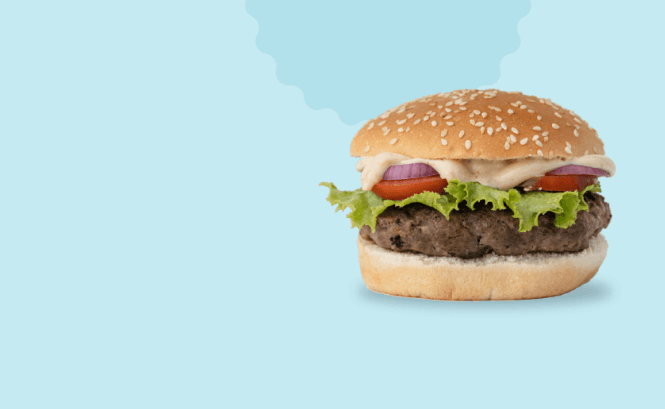
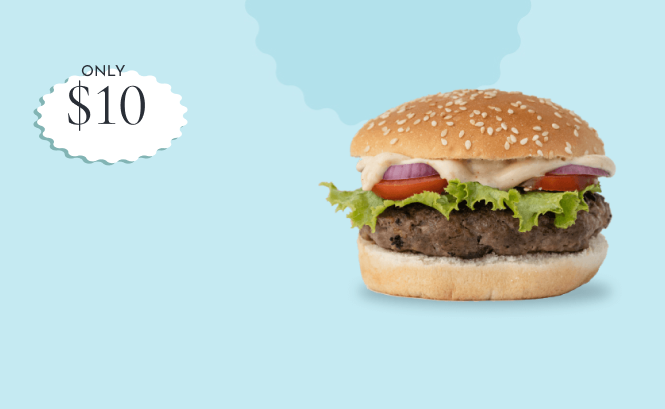
Add Our Offer dishes section

Changed region(s): [[0.0301, 0.1467, 0.3008, 0.4108]]

diff --git a/css/styles.css b/css/styles.css
@@ -1,3 +1,4 @@
+/* Special-menu styles start  */
 .sp-menu {
   padding: 120px 0;
 }
@@ -107,3 +108,90 @@
   color: #292e36;
   margin-bottom: 13px;
 }
+/* Special-menu styles end  */
+/* Offer-menu styles start  */
+.offer-menu {
+  padding: 120px 0;
+}
+.offer-menu__caption {
+  display: flex;
+  flex-direction: column;
+  justify-content: center;
+  align-items: center;
+  text-align: center;
+  margin-bottom: 40px;
+}
+.offer-menu__subtitle {
+  font-size: 15px;
+  line-height: 22px;
+  letter-spacing: 3px;
+  text-transform: uppercase;
+  color: #292e36;
+  border-top: 1px solid #e1b168;
+  border-bottom: 1px solid #e1b168;
+  display: inline-block;
+  padding-top: 4px;
+}
+.offer-menu__title {
+  font-family: "Cormorant Infant", serif;
+  font-size: 40px;
+  line-height: 56px;
+  text-align: center;
+  letter-spacing: 0.2px;
+  text-transform: capitalize;
+  color: #292e36;
+  margin: 12px 0 8px;
+}
+.offer-menu__desc {
+  font-size: 20px;
+  line-height: 30px;
+  text-align: center;
+  letter-spacing: 0.2px;
+  color: #555555;
+  width: 60%;
+}
+.offer-menu__inner {
+  display: flex;
+  justify-content: space-between;
+  gap: 30px;
+}
+.offer-menu__item {
+  background: url("../img/burger-pic.png") no-repeat center center / cover;
+  width: 665px;
+  height: 409px;
+  padding: 0 0 40px 40px;
+  display: flex;
+  flex-direction: column;
+  justify-content: flex-end;
+}
+.offer-menu__item:last-child {
+  background: url("../img/pizza-pic.png") no-repeat center center / cover;
+}
+.offer-menu__leap {
+  font-size: 15px;
+  line-height: 22px;
+  letter-spacing: 4.5px;
+  text-transform: uppercase;
+  color: #292e36;
+  padding-top: 4px;
+  border-top: 1px solid #292e36;
+  border-bottom: 1px solid #292e36;
+  width: 212px;
+  text-align: center;
+}
+.offer-menu__heading {
+  font-family: "Cormorant Infant", serif;
+  font-size: 40px;
+  line-height: 56px;
+  letter-spacing: 0.2px;
+  color: #292e36;
+  margin: 8px 0 5px;
+}
+.offer-menu__text {
+  font-size: 20px;
+  line-height: 30px;
+  letter-spacing: 0.2px;
+  color: #555555;
+  width: 245px;
+}
+/* Offer-menu styles end  */

diff --git a/index.html b/index.html
@@ -20,6 +20,7 @@
     <!-- Css link end-->
   </head>
   <body>
+    <!-- Try Our Special dishes start -->
     <section class="sp-menu">
       <div class="container">
         <h1 class="sp-menu__title">Menu</h1>
@@ -192,5 +193,36 @@
         </div>
       </div>
     </section>
+    <!-- Try Our Special dishes end -->
+    <!-- Our Offer dishes start -->
+    <section class="offer-menu">
+      <div class="offer-menu__caption">
+        <h1 class="offer-menu__subtitle">offers</h1>
+        <h1 class="offer-menu__title">Our Offer dishes</h1>
+        <p class="offer-menu__desc">
+          Our chefs create melt-in-your-mouth dishes that'll satiate even the
+          fussiest eaters now the dishes are in offers use it based on hunger.
+        </p>
+      </div>
+      <div class="container">
+        <div class="offer-menu__inner">
+          <div class="offer-menu__item">
+            <h1 class="offer-menu__leap">50% Offer Going</h1>
+            <h1 class="offer-menu__heading">Chicken Burger</h1>
+            <p class="offer-menu__text">
+              Chicken burger with the tasty toppings and leaves.
+            </p>
+          </div>
+          <div class="offer-menu__item">
+            <h1 class="offer-menu__leap">50% Offer Going</h1>
+            <h1 class="offer-menu__heading">Chicken Pizza</h1>
+            <p class="offer-menu__text">
+              Pizza with multiple flavor and the toping are mixed.
+            </p>
+          </div>
+        </div>
+      </div>
+    </section>
+    <!-- Our Offer dishes end -->
   </body>
 </html>

diff --git a/css/responsive.css b/css/responsive.css
@@ -4,6 +4,7 @@
   .container {
     max-width: 100%;
   }
+  /* Special-menu styles start  */
   .sp-menu {
     padding: 40px 0;
   }
@@ -70,4 +71,39 @@
   .sp-menu__item-center {
     display: none;
   }
+  /* Special-menu styles end  */
+  /* Offer-menu styles start  */
+  .offer-menu {
+    padding: 40px 0;
+  }
+  .offer-menu__desc {
+    width: 100%;
+  }
+  .offer-menu__inner {
+    flex-direction: column;
+  }
+  .offer-menu__item {
+    width: 100%;
+    height: 270px;
+    padding: 0;
+    text-align: center;
+  }
+  .offer-menu__leap {
+    width: 100%;
+    background-color: rgba(255, 255, 255, 0.6);
+    border-top: 1px solid rgba(255, 255, 255, 1);
+    border-bottom: 1px solid rgba(255, 255, 255, 1);
+  }
+  .offer-menu__heading {
+    font-size: 32px;
+    line-height: 28px;
+    margin: 0;
+    padding: 12px 0;
+    background-color: rgba(255, 255, 255, 0.6);
+  }
+  .offer-menu__text {
+    background-color: rgba(255, 255, 255, 0.6);
+    width: 100%;
+  }
+  /* Offer-menu styles end  */
 }
